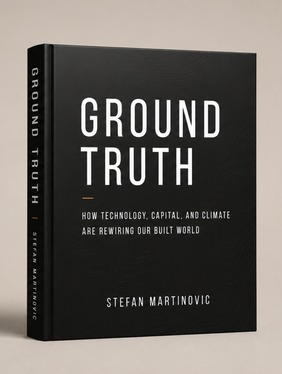
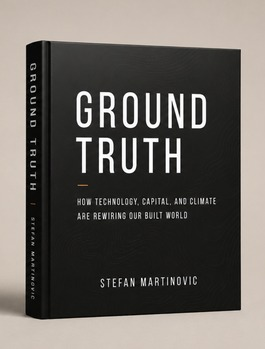
marketing: swap to higher-quality book mockup, recropped

diff --git a/marketing/index.html b/marketing/index.html
@@ -834,7 +834,7 @@
 
   <div class="book-grid">
     <div class="book-cover-wrap">
-      <img src="/img/ground-truth.jpg" alt="Ground Truth book cover by Stefan Martinovic" loading="lazy" width="564" height="748">
+      <img src="/img/ground-truth.jpg" alt="Ground Truth book cover by Stefan Martinovic" loading="lazy" width="530" height="698">
     </div>
     <div class="book-content">
       <div class="section-tag">New Release</div>
